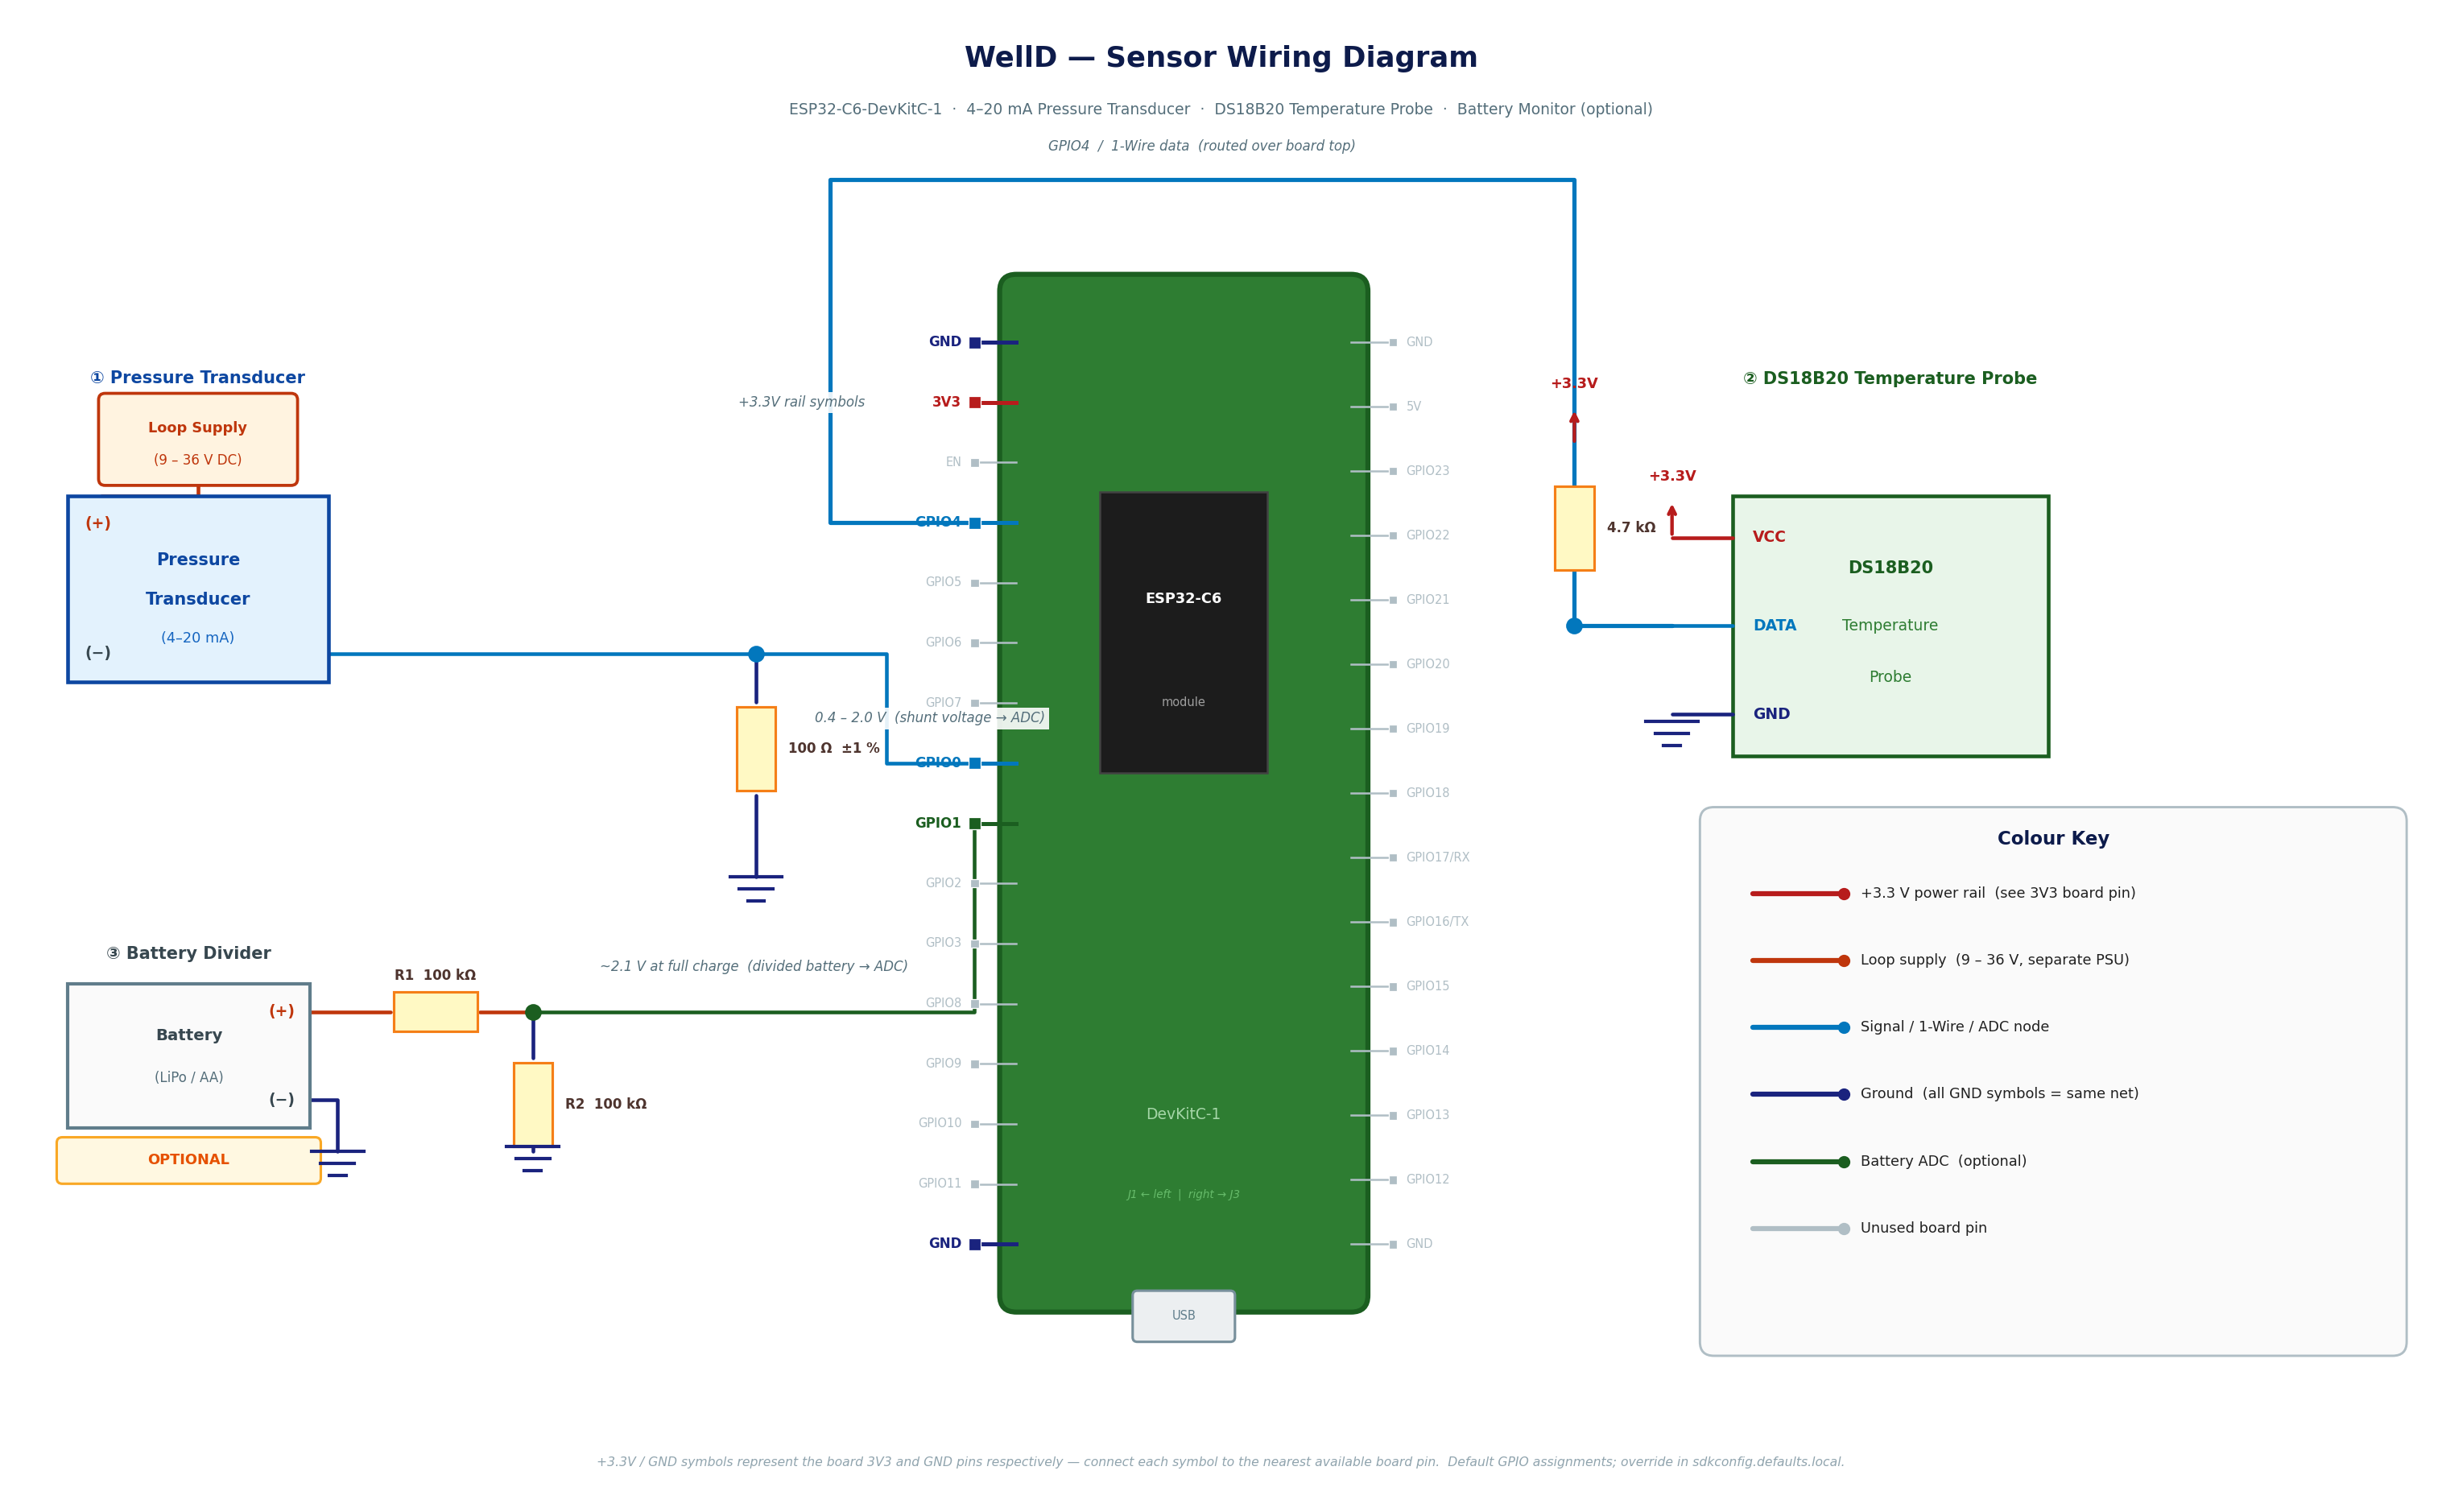
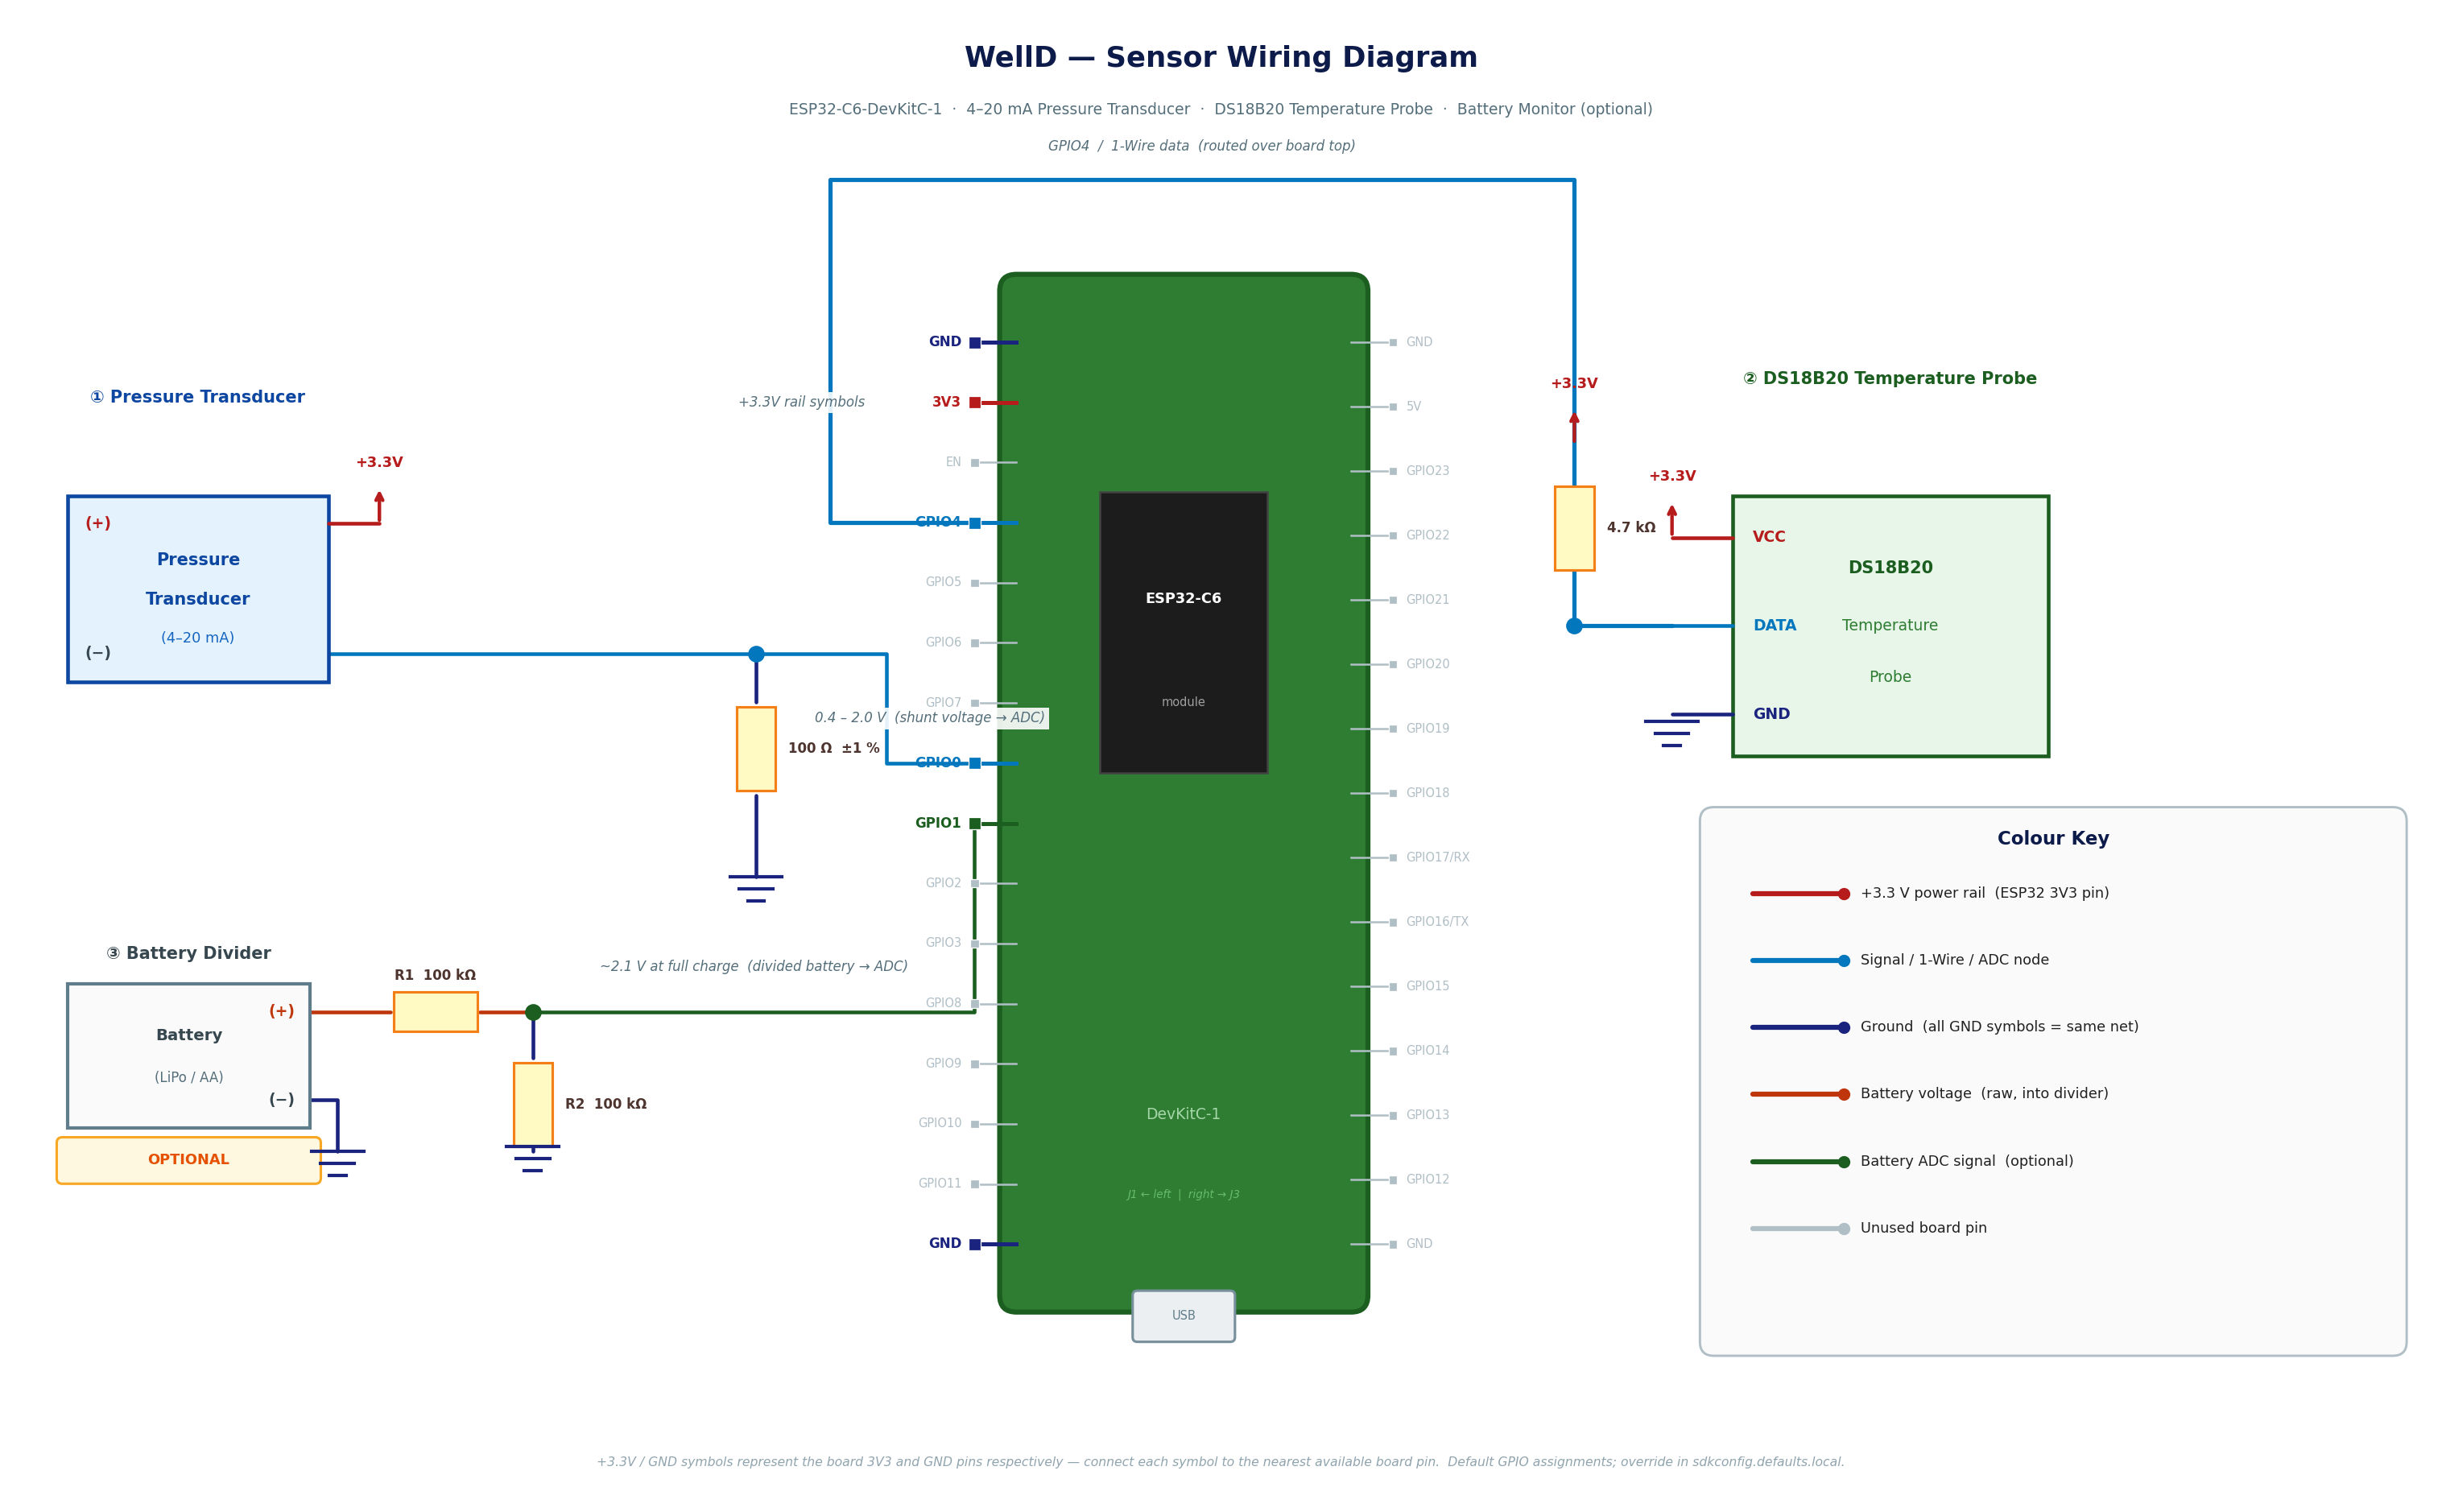
docs: power transducer from ESP32 3V3 pin (remove external loop supply)
User confirmed sensors are powered directly from the ESP32. Changes:
- Remove the separate 9-36 V loop supply box and its wire
- Transducer (+) now connects via a right-side external stub to a
  +3.3V rail symbol, consistent with DS18B20 VCC convention
- (+) label colour updated from loop-supply orange to C_PWR red
- Colour key: drop 'Loop supply' entry, add 'Battery voltage (raw,
  into divider)' to explain C_LOOP still used on battery R1 input
- C_LOOP comment updated to reflect new semantic

https://claude.ai/code/session_01SkQgoMCCHBMR9FD6ftEPBE

diff --git a/docs/gen_wiring_diagram.py b/docs/gen_wiring_diagram.py
@@ -21,7 +21,7 @@ ax.set_facecolor('#ffffff')
 C_PWR   = '#b71c1c'   # +3.3 V
 C_GND   = '#1a237e'   # ground
 C_SIG   = '#0277bd'   # ADC / 1-Wire signal
-C_LOOP  = '#bf360c'   # loop supply (separate high-voltage domain)
+C_LOOP  = '#bf360c'   # raw/unregulated voltage (battery input to divider)
 C_BATT  = '#1b5e20'   # battery ADC (optional)
 C_PCB   = '#2e7d32'   # board fill
 C_ANN   = '#546e7a'   # annotation text
@@ -228,23 +228,17 @@ box(TX, TY, TW, TH, fc='#e3f2fd', ec='#0d47a1', lw=2.2, zo=3)
 t(TX+TW/2, TY+TH/2+0.30, 'Pressure',   sz=10, c='#0d47a1', bold=True)
 t(TX+TW/2, TY+TH/2-0.12, 'Transducer', sz=10, c='#0d47a1', bold=True)
 t(TX+TW/2, TY+TH/2-0.54, '(4–20 mA)', sz=8.5, c='#1565c0')
-t(TX+0.18, TY+TH-0.30,   '(+)', ha='left', sz=9, c=C_LOOP, bold=True)
+t(TX+0.18, TY+TH-0.30,   '(+)', ha='left', sz=9, c=C_PWR, bold=True)
 t(TX+0.18, TY+0.30,       '(−)', ha='left', sz=9, c='#37474f', bold=True)
 
-# Loop supply box
-LS_CX  = TX + TW/2
-LS_BOT = TY + TH + 0.18
-rbox(LS_CX-1.0, LS_BOT, 2.0, 0.85, fc='#fff3e0', ec=C_LOOP, lw=1.8, zo=3, r=0.07)
-t(LS_CX, LS_BOT+0.54, 'Loop Supply',    sz=8.5, c=C_LOOP, bold=True)
-t(LS_CX, LS_BOT+0.20, '(9 – 36 V DC)', sz=8,   c=C_LOOP)
+# (+) terminal: stub exits box right wall → +3.3V rail symbol.
+# Wire starts AT the right wall so it never enters the box interior.
+TRANS_POS_Y  = TY + TH - 0.30          # 10.50
+TRANS_STUB_X = TX + TW + 0.55          # 3.95 — stub end outside box
+wire([(TX + TW, TRANS_POS_Y), (TRANS_STUB_X, TRANS_POS_Y)], C_PWR, zo=4)
+vcc_sym(TRANS_STUB_X, TRANS_POS_Y, '+3.3V')
 
-TRANS_POS_Y = TY + TH - 0.30
-wire([(TX+0.36, TRANS_POS_Y),
-      (TX+0.36, TY+TH),
-      (LS_CX,   TY+TH),
-      (LS_CX,   LS_BOT)], C_LOOP)
-
-t(TX+TW/2, TY+TH+1.26, '① Pressure Transducer', sz=10, c='#0d47a1', bold=True)
+t(TX+TW/2, TY+TH+1.05, '① Pressure Transducer', sz=10, c='#0d47a1', bold=True)
 
 # ── Signal junction: transducer −, shunt top, GPIO0 ──────────────────────────
 # This node sits at 0.4–2.0 V (loop current × 100 Ω). It is NOT ground.
@@ -427,11 +421,11 @@ rbox(KX-0.3, KY-0.3, 7.3, 5.6, fc='#fafafa', ec='#b0bec5', lw=1.4, zo=3, r=0.15)
 t(KX+3.35, KY+5.1, 'Colour Key', sz=11, c='#0d1b4b', bold=True)
 
 KEY_ITEMS = [
-    (C_PWR,  '+3.3 V power rail  (see 3V3 board pin)'),
-    (C_LOOP, 'Loop supply  (9 – 36 V, separate PSU)'),
+    (C_PWR,  '+3.3 V power rail  (ESP32 3V3 pin)'),
     (C_SIG,  'Signal / 1-Wire / ADC node'),
     (C_GND,  'Ground  (all GND symbols = same net)'),
-    (C_BATT, 'Battery ADC  (optional)'),
+    (C_LOOP, 'Battery voltage  (raw, into divider)'),
+    (C_BATT, 'Battery ADC signal  (optional)'),
     (C_FADE, 'Unused board pin'),
 ]
 for i, (c, lbl) in enumerate(KEY_ITEMS):